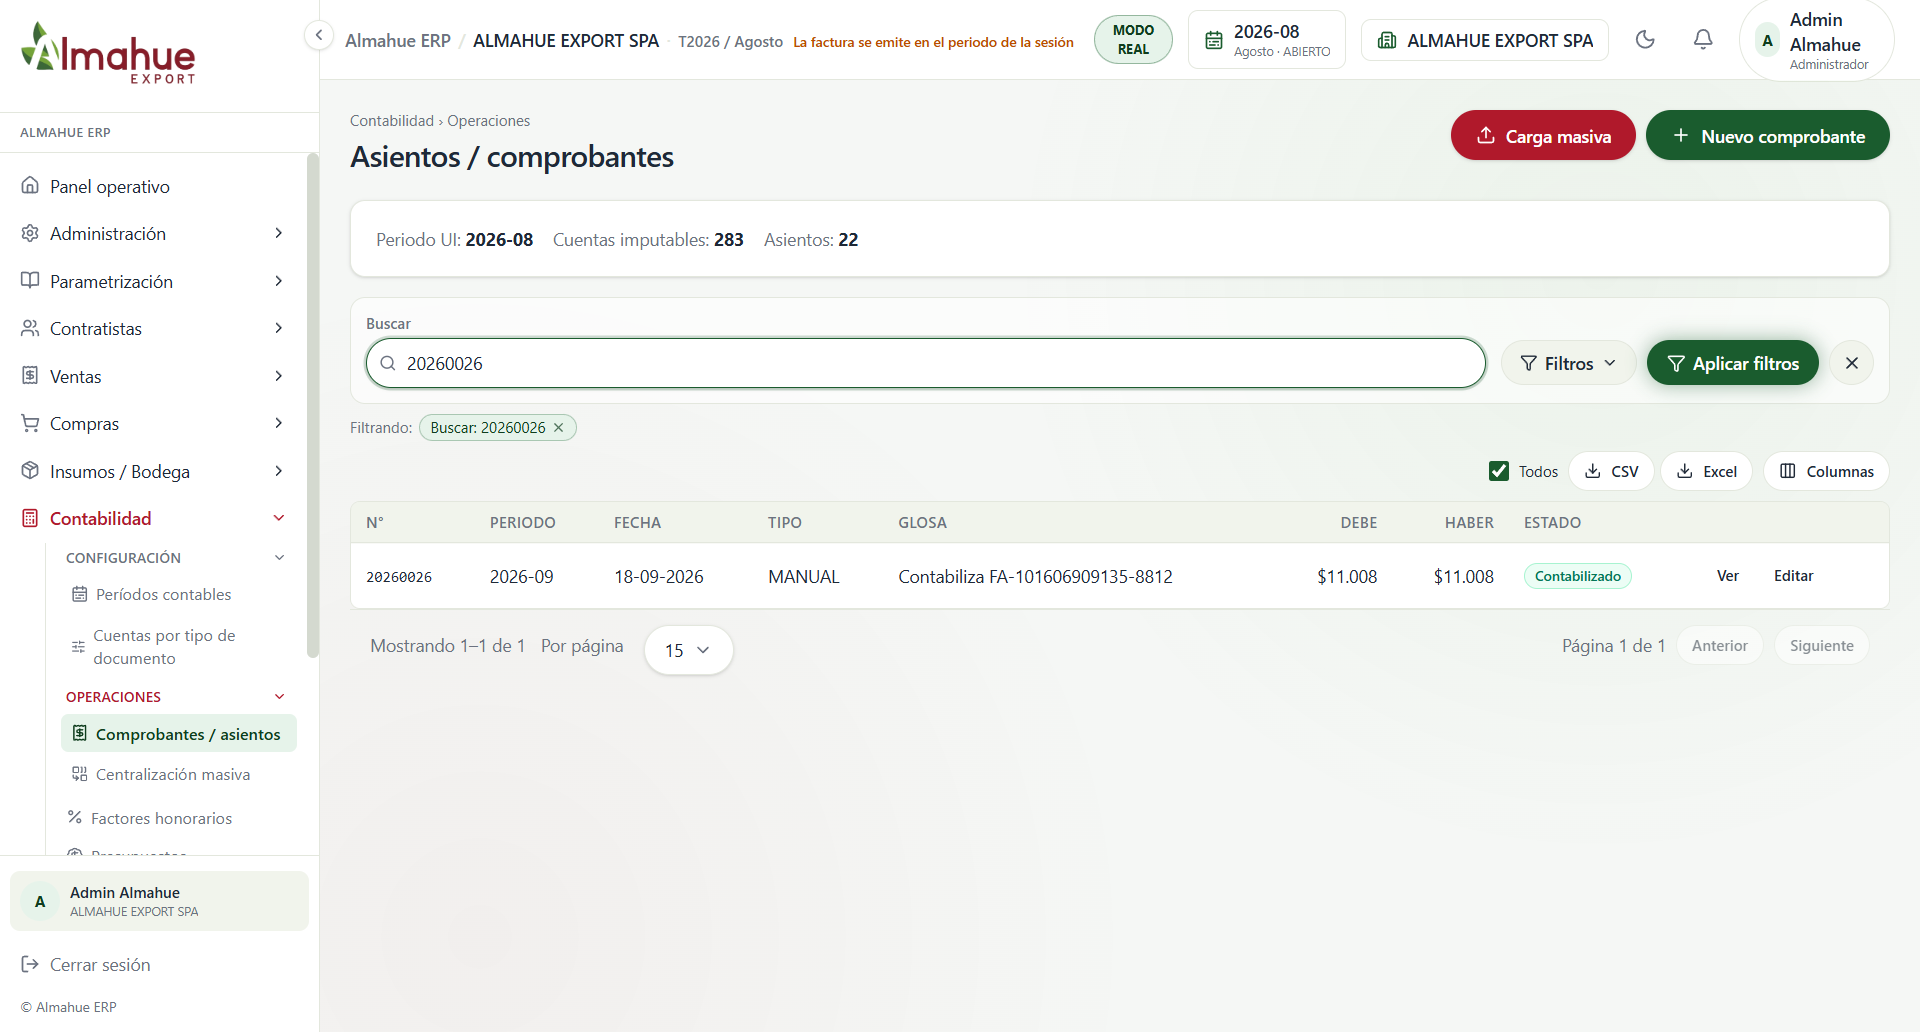
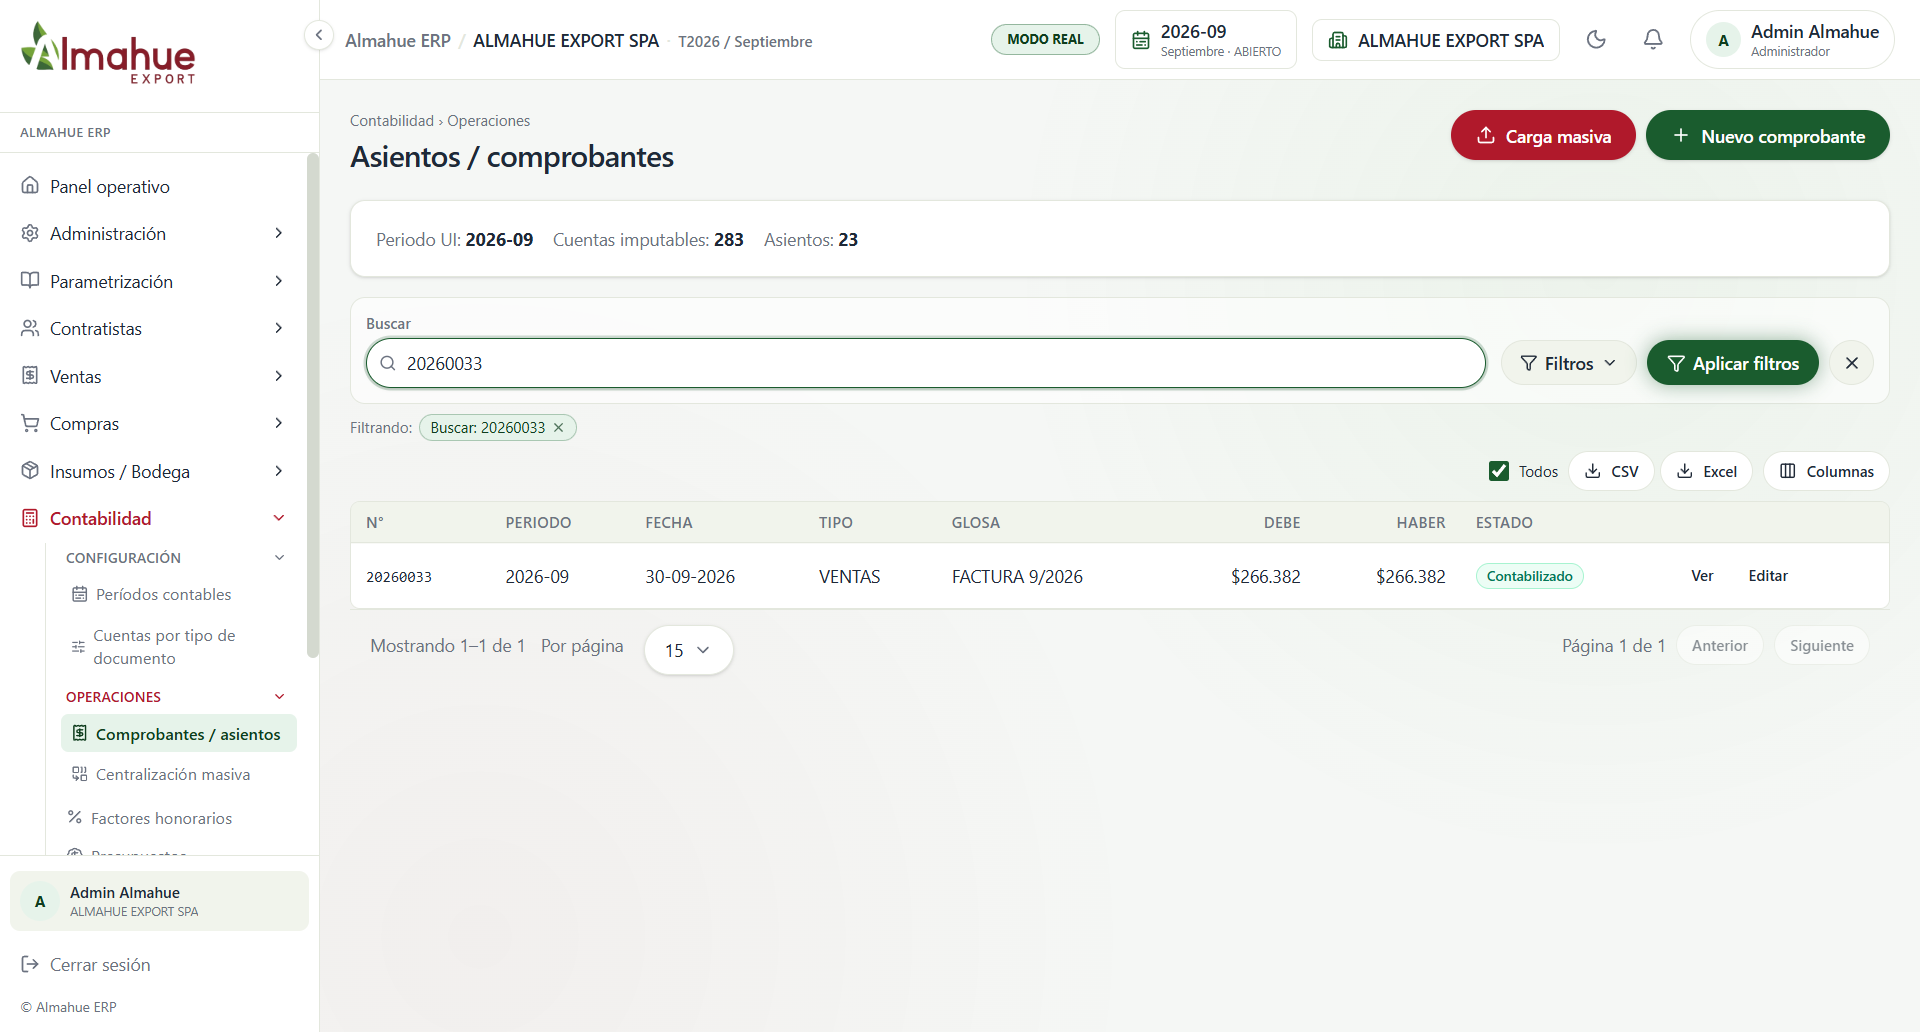
Actualiza el recorrido de venta con el comprobante impreso.

diff --git a/recorridos/venta/recorrido.html b/recorridos/venta/recorrido.html
@@ -153,7 +153,7 @@
       .layout { grid-template-columns: 1fr; }
       nav { position: static; }
     }
-      .volver { max-width: 1280px; margin: 0 auto; padding: 8px 16px 0; }
+    .volver { max-width: 1280px; margin: 0 auto; padding: 8px 16px 0; }
     .volver a { color: #1c1917; font-weight: 650; text-decoration: none; }
     .volver a:hover { text-decoration: underline; }
   </style>
@@ -264,24 +264,38 @@
         mod: "Contabilidad", cls: "conta",
         title: "8. El comprobante",
         img: "06-asientos-lista.png",
-        alt: "Listado de asientos filtrado por 20260026",
+        alt: "Listado de asientos filtrado por 20260033",
         pins: [
-          { x: 48.2, y: 35.2, t: "Buscar", d: "El número 20260026 es el que el libro mostró en la factura 87. Esta pantalla ya es Contabilidad, no Ventas. Todos muestra el asiento, que es de septiembre." },
-          { x: 90, y: 55.7, t: "Ver", d: "Abre las líneas. Este comprobante dice MANUAL porque se grabó antes del ajuste. Uno nuevo queda tipo VENTAS. El mismo asiento entra al libro diario y al mayor de su periodo, 2026-09." }
+          { x: 48.2, y: 35.2, t: "Buscar", d: "El número 20260033 es el comprobante de la factura folio 88, cereza, total $266.382. Todos muestra el asiento de septiembre. El tipo es VENTAS y la glosa FACTURA 9/2026." },
+          { x: 88.7, y: 55.7, t: "Ver", d: "Abre las líneas. La columna Cuenta muestra el código del plan. Este comprobante es de septiembre y entra al libro diario y al mayor de 2026-09." }
         ]
       },
       {
         mod: "Contabilidad", cls: "conta",
         title: "9. Líneas del asiento",
         img: "07-asiento-detalle.png",
-        alt: "Detalle del asiento 20260026 con tres líneas",
+        alt: "Detalle del asiento 20260033 con cuentas del plan, tipo 33 y folio 88",
         pins: [
-          { x: 76, y: 78.3, t: "Editar", d: "Las líneas de arriba no son botones: debe clientes $11.008, haber del ítem $9.250 y haber IVA débito $1.758. Editar abre el comprobante. Cerrar lo deja como está." }
+          { x: 31.1, y: 59.3, t: "Cuenta", d: "Línea por cobrar: 1-1-04-01-001 (110401001) CLIENTES, debe $266.382. Es factura afecta, no exportación, por eso no usa Clientes exportación. El haber del ítem es 5-1-01-01-002 (510101002) INGRESO POR VENTA FRUTA M.INTERNO, $223.850." },
+          { x: 41.4, y: 59.3, t: "Tipo", d: "33 es el tipo de DTE de la factura afecta. Va en la línea de clientes. Las otras líneas no llevan referencia." },
+          { x: 43.9, y: 59.3, t: "Nro", d: "88 es el folio oficial del DTE. El vencimiento 30-10-2026 es la fecha de cobro: la factura no traía vencimiento, y queda la fecha del documento más 30 días. Imprimir abre la hoja del paso siguiente." }
+        ]
+      },
+      {
+        mod: "Contabilidad", cls: "conta",
+        title: "10. Vista impresa",
+        img: "10-comprobante-impreso.png",
+        alt: "Comprobante de ventas 20260033 impreso, con cuenta, tipo 33, folio 88 y vencimiento",
+        pins: [
+          { x: 3.8, y: 27.4, t: "Cuenta", d: "En la hoja la cuenta sale con el código de 9 dígitos del plan: 110401001 CLIENTES y 510101002 INGRESO POR VENTA FRUTA M.INTERNO. El centro 1002 va en la columna CC." },
+          { x: 41, y: 27.4, t: "Tipo", d: "33 es el tipo de DTE, factura afecta. Queda en la referencia de la línea de clientes." },
+          { x: 44.3, y: 27.4, t: "Nro", d: "88 es el folio oficial del DTE, no el número del comprobante. El comprobante es 20260033, arriba a la derecha." },
+          { x: 49.8, y: 27.4, t: "Vcto", d: "30/10/2026 es la fecha de cobro. La factura no traía vencimiento, así que son 30 días desde el 30/09/2026. Solo va en la línea de clientes." }
         ]
       },
       {
         mod: "Tesorería", cls: "teso",
-        title: "10. Deuda del cliente",
+        title: "11. Deuda del cliente",
         img: "08-cuenta-corriente.png",
         alt: "Estado de cuenta de ALM SERVICES con saldo cliente 11008",
         pins: [
@@ -292,7 +306,7 @@
       },
       {
         mod: "Tesorería", cls: "teso",
-        title: "11. El movimiento de la venta",
+        title: "12. El movimiento de la venta",
         img: "09-cuenta-detalle.png",
         alt: "Detalle de cuenta corriente con la venta pendiente de 11008",
         pins: [
@@ -302,7 +316,7 @@
       },
       {
         mod: "Tesorería", cls: "teso",
-        title: "12. Cobrar",
+        title: "13. Cobrar",
         img: "11-pagos.png",
         alt: "Formulario de nuevo pago precargado con la factura de ALM SERVICES",
         pins: [
